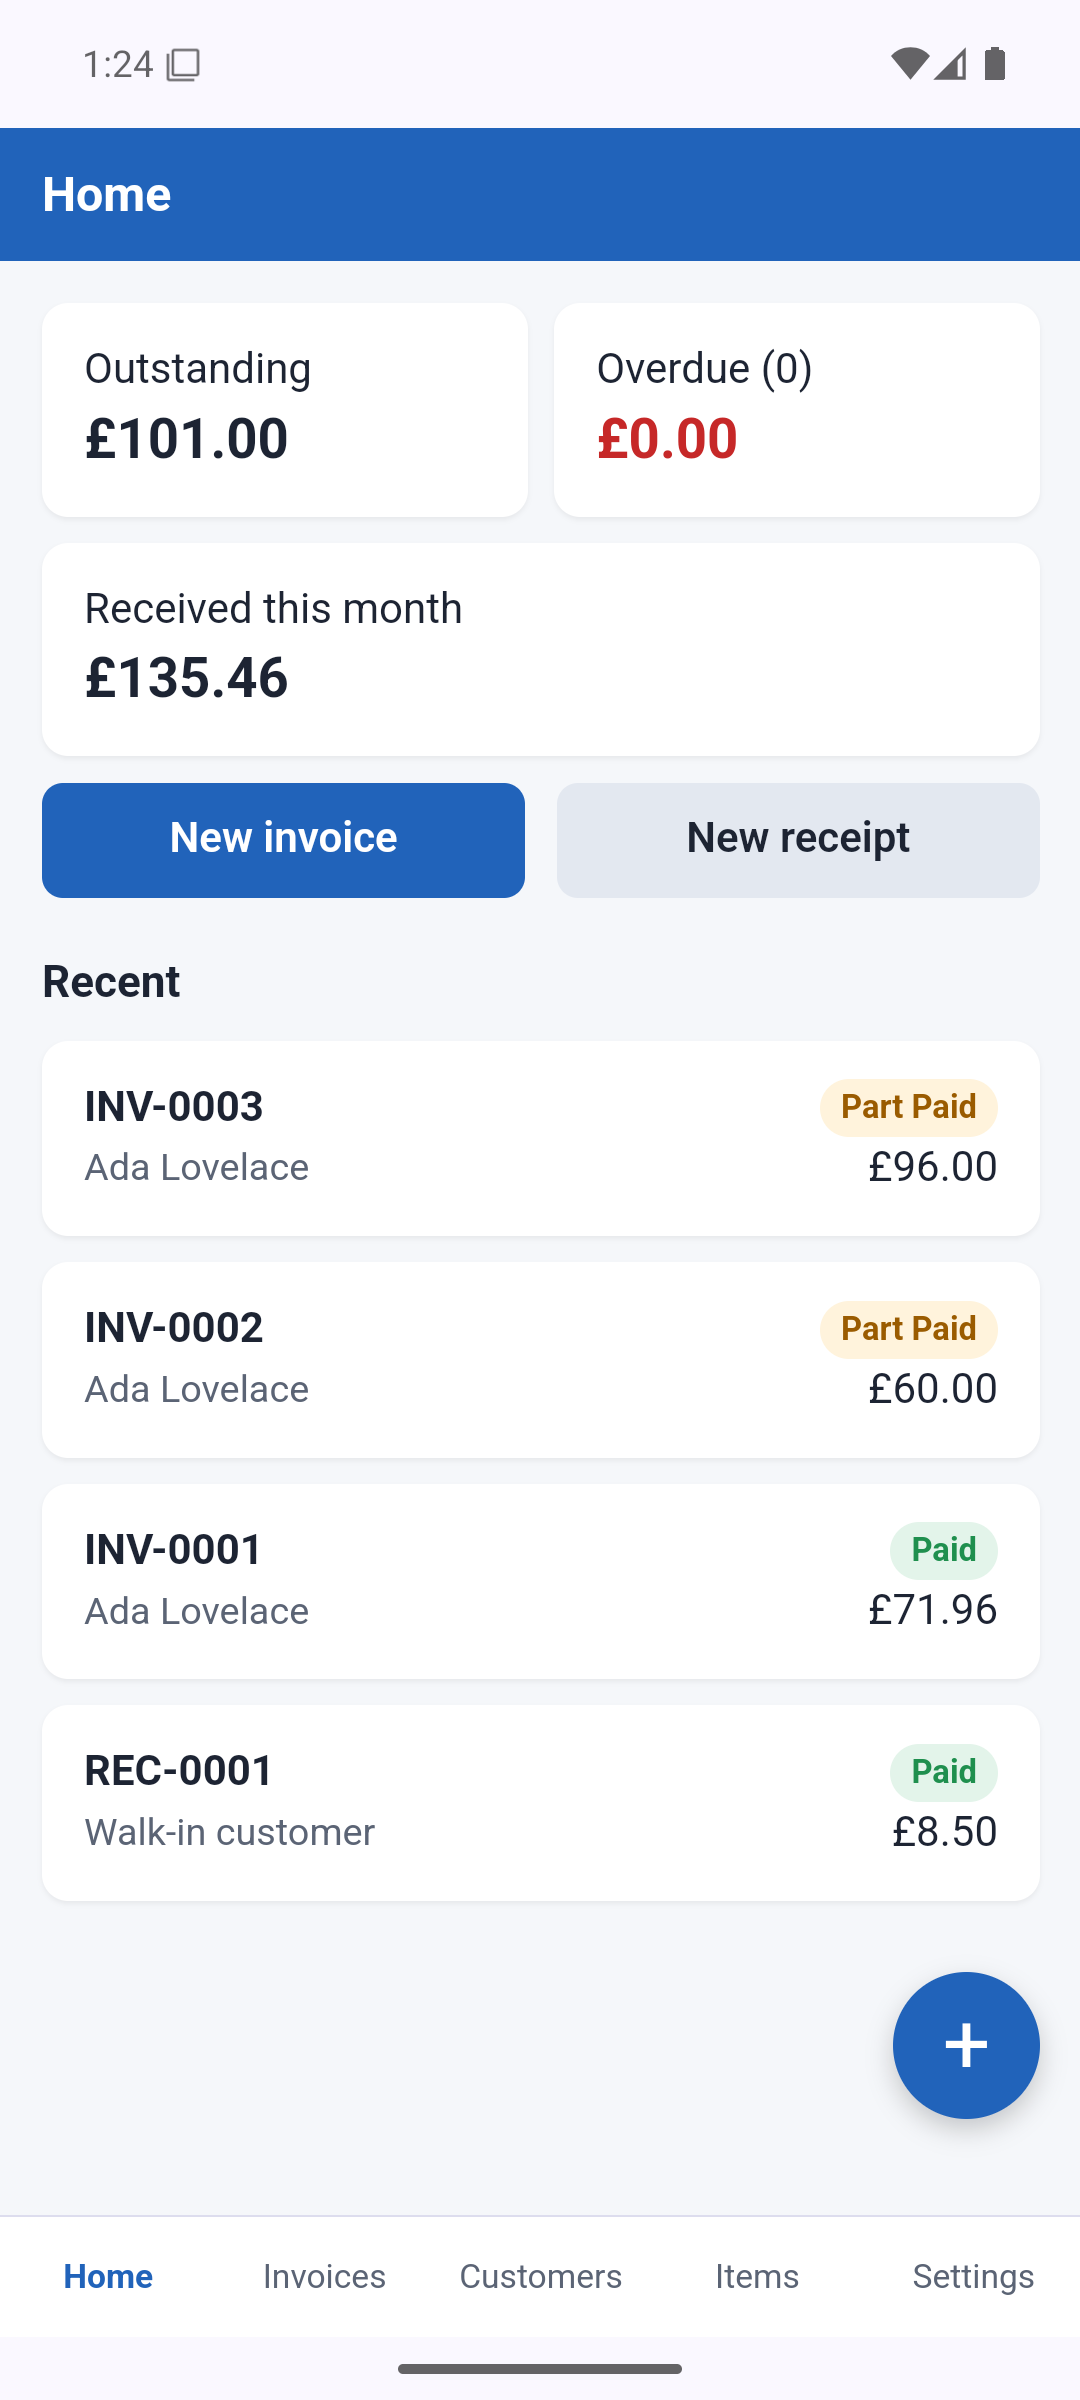
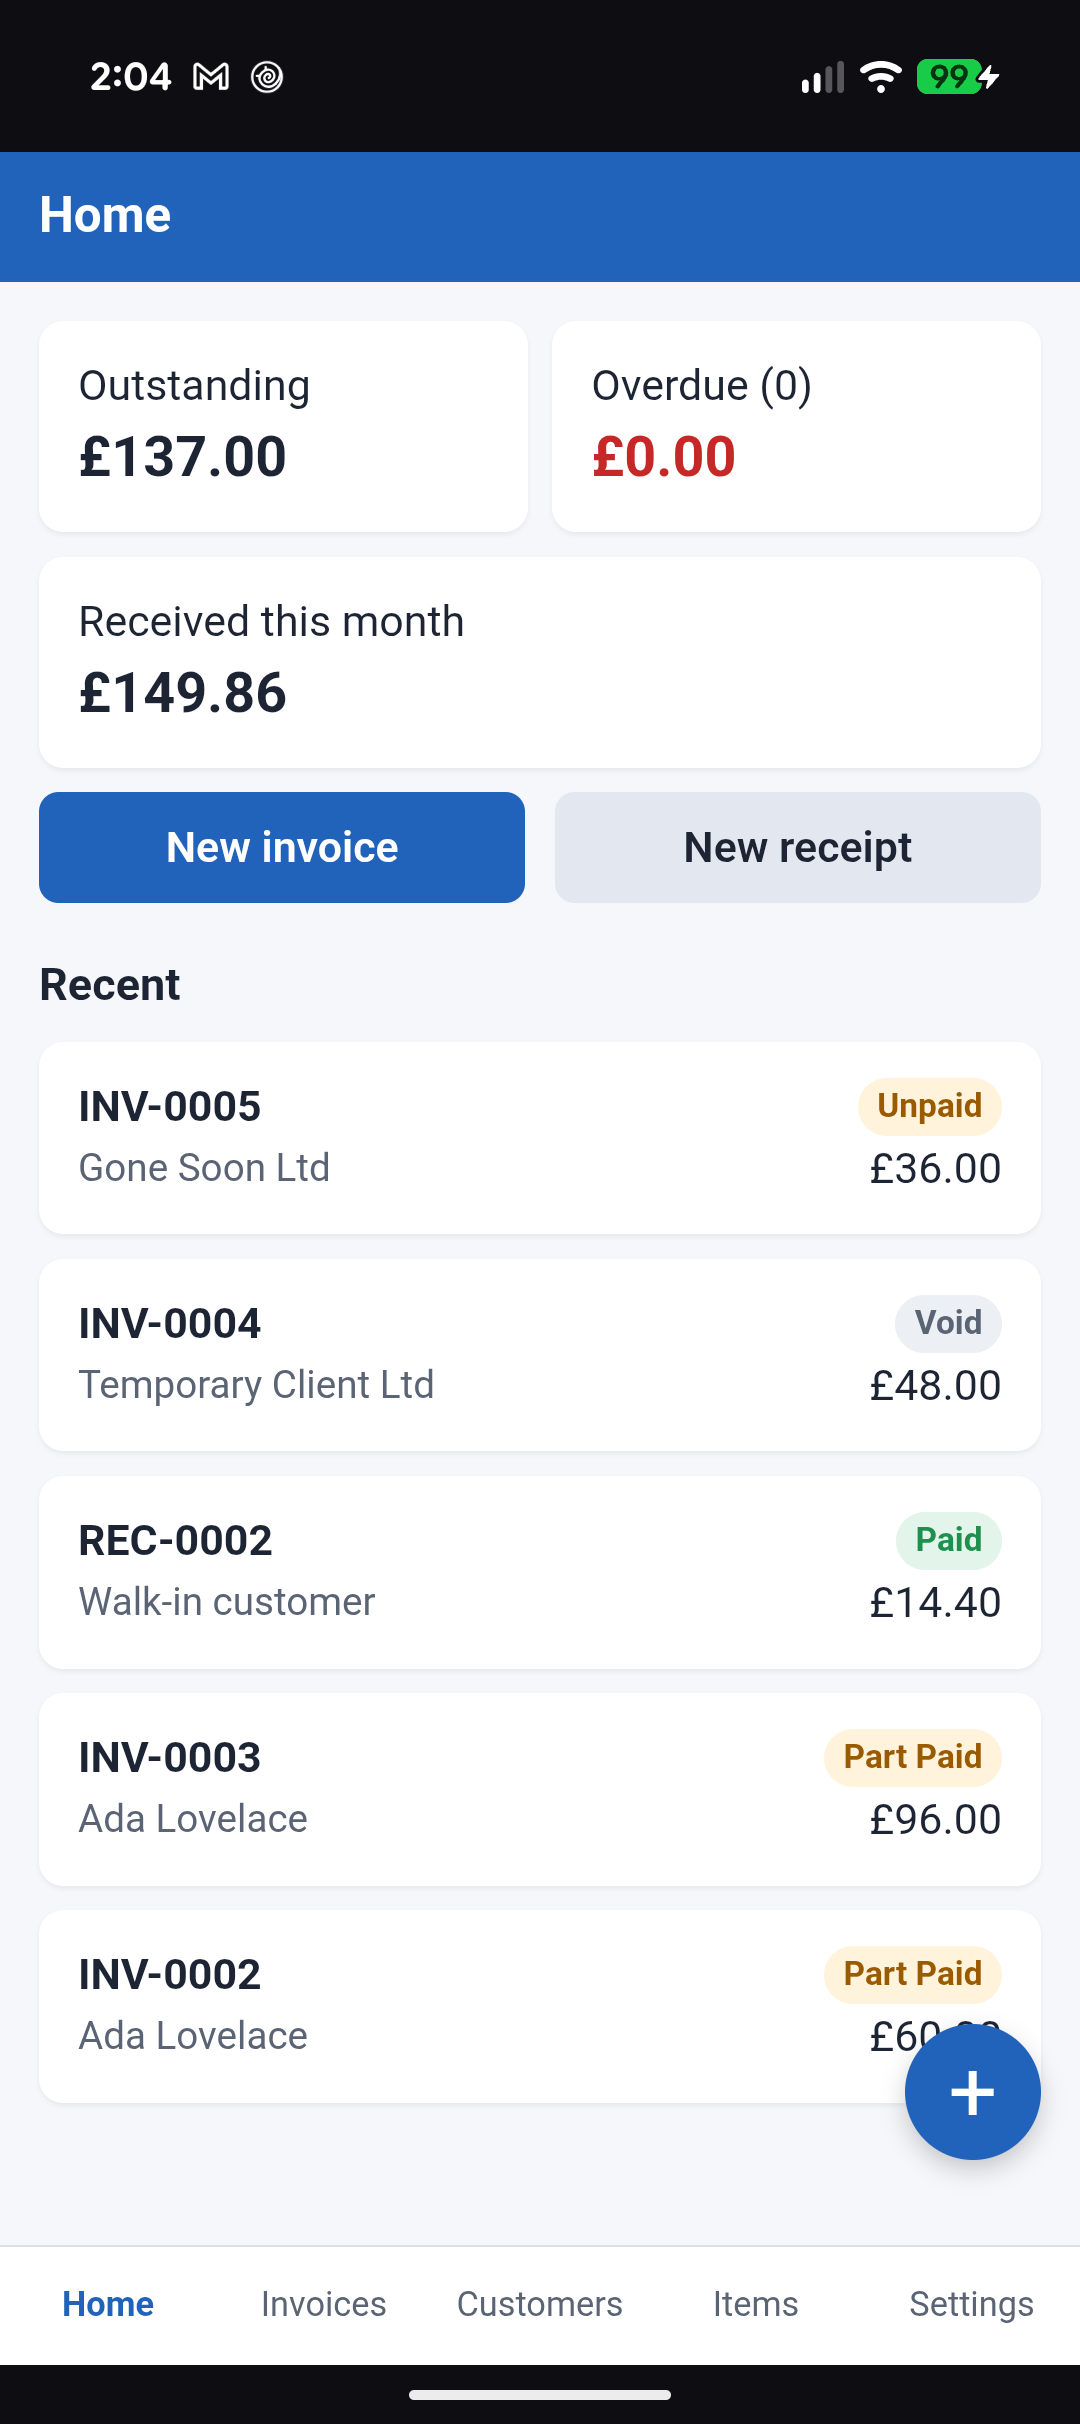
fix(mobile): safe-area double padding, deleted-customer invoices; version 0.1.1
- drop CSS safe-area padding: Cordova already insets the WebView and newer WebViews still report the inset
- invoices whose customer was deleted keep and show the stored customer, and can be saved
- verified on the phone: delete draft/customer/item, void via the native confirm dialog, sync to a second device

diff --git a/mobile-client/www/js/app.js b/mobile-client/www/js/app.js
@@ -159,6 +159,8 @@ async function renderEditor(id, type = 'invoice') {
   if (!doc) { view.innerHTML = '<p class="empty">This document no longer exists.</p>'; return; }
   const isInvoice = doc.type === 'invoice';
   const locked = doc.status === 'void';
+  // If this document's customer was deleted later, keep showing (and saving) the copy stored on the document.
+  const deletedCustomer = doc.customerId && doc.customer && !customers.some((c) => c.id === doc.customerId);
   setTitle(doc.number || `New ${doc.type}`);
 
   view.innerHTML = `
@@ -167,6 +169,7 @@ async function renderEditor(id, type = 'invoice') {
       <label>${isInvoice ? 'Customer *' : 'Customer (optional)'}
         <select name="customerId">
           <option value="">${isInvoice ? 'Select a customer…' : 'Walk-in customer'}</option>
+          ${deletedCustomer ? `<option value="${doc.customerId}" selected>${esc(doc.customer.name)} (deleted customer)</option>` : ''}
           ${customers.map((c) => `<option value="${c.id}" ${c.id === doc.customerId ? 'selected' : ''}>${esc(c.name)}</option>`).join('')}
         </select>
       </label>
@@ -285,7 +288,9 @@ async function renderEditor(id, type = 'invoice') {
     try {
       const c = customers.find((x) => x.id === doc.customerId);
       // Snapshot so old PDFs stay accurate if the customer's details change later.
-      doc.customer = c ? { name: c.name, email: c.email, phone: c.phone, address: c.address } : null;
+      // A deleted customer has no record any more, so the existing snapshot is kept.
+      if (c) doc.customer = { name: c.name, email: c.email, phone: c.phone, address: c.address };
+      else if (!(deletedCustomer && doc.customerId)) doc.customer = null;
       recalc();
       if (issuing && doc.status === 'draft') {
         doc.status = 'issued';

diff --git a/mobile-client/www/css/app.css b/mobile-client/www/css/app.css
@@ -1,8 +1,10 @@
 :root { --brand: #2163ba; --bg: #f5f7fa; --card: #fff; --text: #1d2433; --muted: #5b6475;
         --ok: #1f8f4e; --warn: #9a5b00; --err: #c62828; }
 * { box-sizing: border-box; }
+/* No env(safe-area-inset-*) padding: Cordova already places the WebView between the system bars,
+   and some WebViews still report the inset, which would add the space twice. */
 body { margin: 0; font: 16px/1.45 system-ui, sans-serif; background: var(--bg); color: var(--text);
-       padding-bottom: 72px; padding-top: env(safe-area-inset-top); }
+       padding-bottom: 72px; }
 .topbar { background: var(--brand); color: #fff; padding: 12px 16px; }
 .topbar h1 { margin: 0; font-size: 1.15rem; }
 main { padding: 16px 16px 96px; max-width: 720px; margin: 0 auto; }   /* bottom room so the + button never covers content */
@@ -49,8 +51,7 @@ button:disabled { opacity: .6; }
 .banner-synced { background: #e3f4ea; } .banner-failed, .banner-conflict { background: #fff3dc; }
 .error { color: var(--err); } .empty { text-align: center; color: var(--muted); padding: 32px 16px; }
 .logo { max-width: 120px; max-height: 120px; margin-bottom: 12px; }
-.tabbar { position: fixed; bottom: 0; left: 0; right: 0; display: flex; background: #fff; border-top: 1px solid #dde;
-          padding-bottom: env(safe-area-inset-bottom); }
+.tabbar { position: fixed; bottom: 0; left: 0; right: 0; display: flex; background: #fff; border-top: 1px solid #dde; }
 .tabbar a { flex: 1; text-align: center; padding: 14px 0; color: var(--muted); text-decoration: none; font-size: .8rem; }
 .tabbar a.active { color: var(--brand); font-weight: 700; }
 .fab { position: fixed; right: 16px; bottom: 84px; width: 56px; height: 56px; border-radius: 50%; background: var(--brand);

diff --git a/docs/test-plan.md b/docs/test-plan.md
@@ -28,12 +28,19 @@ Devices used: Pixel 9 Pro Fold (Android 17, current WebView) and an Android 15 e
 | OF-7 | PDF generated on the phone is correct (pulled from the app cache and inspected) | ✅ |
 | OF-8 | Data survives force-stop + app update in airplane mode | ✅ |
 | OF-9 | Offline-only build (no API URL): sign-in hidden, settings explain it, everything else works | ✅ |
+| OF-10 | Delete a draft invoice → removed, deletion syncs to the other device | ✅ |
+| OF-11 | Void an issued invoice via the native Android confirm dialog → locked, no Save, still shareable, moves to the "void" filter, leaves the outstanding total | ✅ |
+| OF-12 | Delete a customer who has invoices → invoices keep the customer's name and address; editing such an invoice shows "(deleted customer)" and saves | ✅ |
+| OF-13 | Delete a saved item | ✅ |
 
 Found and fixed on the real devices:
 - a blank band under the status bar (safe-area inset applied twice)
 - line labels detached from their inputs
 - the floating + button covering the last button
 - a new screen opening part-way down because the previous screen's scroll position was kept
+- newer WebViews report a safe-area inset although Cordova already offsets the WebView, so CSS safe-area
+  padding was removed
+- editing an invoice whose customer had been deleted showed an empty customer and could not be saved
 
 ## Sync between two real devices (phone + emulator, API in Docker via `adb reverse`)
 
